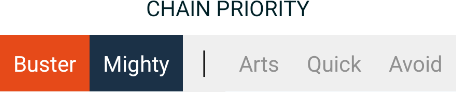
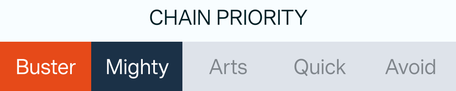
Chain Priority: tap a chain to turn it on or off instead of using a cutoff

diff --git a/scripts/src/main/java/io/github/fate_grand_automata/scripts/models/battle/ChainPriorityPerWave.kt b/scripts/src/main/java/io/github/fate_grand_automata/scripts/models/battle/ChainPriorityPerWave.kt
@@ -2,47 +2,83 @@ package io.github.fate_grand_automata.scripts.models.battle
 
 import io.github.fate_grand_automata.scripts.enums.ChainTypeEnum
 
+/** A chain type in the Chain Priority order. A disabled one keeps its place but is never tried. */
+data class ChainPriorityItem(
+    val type: ChainTypeEnum,
+    val isEnabled: Boolean = true
+)
+
+/**
+ * The Chain Priority order of each wave. Every wave holds each [ChainTypeEnum] exactly once.
+ *
+ * Saved as one line per wave, with the chain names in order and `!` in front of disabled ones,
+ * e.g. `Mighty,!Buster,Arts,Quick,!Avoid`.
+ */
 class ChainPriorityPerWave private constructor(
-    private val chainsPerWave: List<List<ChainTypeEnum>>
-) : List<List<ChainTypeEnum>> by chainsPerWave {
+    private val chainsPerWave: List<List<ChainPriorityItem>>
+) : List<List<ChainPriorityItem>> by chainsPerWave {
     fun atWave(wave: Int) =
         chainsPerWave[wave.coerceIn(chainsPerWave.indices)]
+
+    /** The chains to try in [wave], in order. */
+    fun enabledAtWave(wave: Int) =
+        atWave(wave)
+            .filter { it.isEnabled }
+            .map { it.type }
 
     override fun toString() =
         chainsPerWave
             .joinToString(STAGE_SEPARATOR) {
-                it.joinToString(SEPARATOR) { c -> c.name }
+                it.joinToString(SEPARATOR) { item ->
+                    if (item.isEnabled) item.type.name else DISABLED_PREFIX + item.type.name
+                }
             }
 
     companion object {
-        val default = from(listOf(ChainTypeEnum.defaultOrder))
+        val default = from(
+            listOf(
+                ChainTypeEnum.entries.map { ChainPriorityItem(it, isEnabled = it in ChainTypeEnum.defaultOrder) }
+            )
+        )
         private const val STAGE_SEPARATOR = "\n"
         private const val SEPARATOR = ","
+        private const val DISABLED_PREFIX = "!"
 
-        fun from(chainsPerWave: List<List<ChainTypeEnum>>) =
-            ChainPriorityPerWave(chainsPerWave)
+        fun from(chainsPerWave: List<List<ChainPriorityItem>>) =
+            ChainPriorityPerWave(chainsPerWave.map { it.complete() })
 
         fun of(priority: String): ChainPriorityPerWave =
             if (priority.isBlank()) {
                 default
             } else {
-                ChainPriorityPerWave(
+                from(
                     priority
                         .split(STAGE_SEPARATOR)
-                        .map { priorityOnAWave ->
-                            priorityOnAWave
-                                .split(SEPARATOR)
-                                // Skip names that are not chain types (e.g. a corrupt or edited config)
-                                // instead of crashing while the config loads
-                                .mapNotNull { name ->
-                                    ChainTypeEnum.entries.firstOrNull { it.name == name }
-                                }
-                                // Keeps the first occurrence of each, in order
-                                .toSet()
-                                .plusElement(ChainTypeEnum.None)
-                                .toList()
-                        }
+                        .map { parseWave(it) }
                 )
             }
+
+        private fun parseWave(wave: String): List<ChainPriorityItem> =
+            wave
+                .split(SEPARATOR)
+                .mapNotNull { name ->
+                    // Skip names that are not chain types (e.g. a corrupt or edited config)
+                    // instead of crashing while the config loads
+                    val type = ChainTypeEnum.entries
+                        .firstOrNull { it.name == name.removePrefix(DISABLED_PREFIX) }
+                        ?: return@mapNotNull null
+
+                    ChainPriorityItem(type, isEnabled = !name.startsWith(DISABLED_PREFIX))
+                }
+
+        /** Keeps the first occurrence of each chain type and adds missing ones at the end, disabled. */
+        private fun List<ChainPriorityItem>.complete(): List<ChainPriorityItem> {
+            val distinct = distinctBy { it.type }
+            val missing = ChainTypeEnum.entries
+                .filter { type -> distinct.none { it.type == type } }
+                .map { ChainPriorityItem(it, isEnabled = false) }
+
+            return distinct + missing
+        }
     }
 }

diff --git a/app/src/main/java/io/github/fate_grand_automata/ui/card_priority/Render.kt b/app/src/main/java/io/github/fate_grand_automata/ui/card_priority/Render.kt
@@ -25,6 +25,7 @@ import io.github.fate_grand_automata.R
 import io.github.fate_grand_automata.scripts.enums.BraveChainEnum
 import io.github.fate_grand_automata.scripts.enums.ChainTypeEnum
 import io.github.fate_grand_automata.scripts.models.TeamSlot
+import io.github.fate_grand_automata.scripts.models.battle.ChainPriorityItem
 import io.github.fate_grand_automata.ui.FGAListItemColors
 import io.github.fate_grand_automata.ui.drag_sort.DragSort
 import io.github.fate_grand_automata.ui.drag_sort.DragSortItemStyle
@@ -183,7 +184,7 @@ private fun ServantPriority(
 
 @Composable
 private fun ChainPriority(
-    priorities: SnapshotStateList<ChainTypeEnum>
+    priorities: SnapshotStateList<ChainPriorityItem>
 ) {
     Text(
         stringResource(R.string.p_chain_priority).uppercase(),
@@ -193,41 +194,43 @@ private fun ChainPriority(
 
     DragSort(
         items = priorities,
-        key = { it },
+        key = { it.type },
         style = {
-            val afterCutoff = priorities.isAfterCutoff(it)
-            DragSortItemStyle(
-                backgroundColor = colorResource(
-                    if (afterCutoff) R.color.colorDisabledBackground
-                    else when (it) {
-                        ChainTypeEnum.Arts -> R.color.colorArts
-                        ChainTypeEnum.Quick -> R.color.colorQuick
-                        ChainTypeEnum.Buster -> R.color.colorBuster
-                        ChainTypeEnum.Mighty -> R.color.colorPrimaryDark
-                        ChainTypeEnum.Avoid -> R.color.colorAvoid
-                        ChainTypeEnum.None -> R.color.colorDisabledBackground
-                    }
-                ),
-                contentColor = when {
-                    afterCutoff -> colorResource(R.color.colorDisabledText)
-                    it == ChainTypeEnum.None -> Color.Black
-                    else -> Color.White
-                },
-                text = if (it == ChainTypeEnum.None) "│" else stringResource(it.stringRes)
-            )
+            if (it.isEnabled) {
+                DragSortItemStyle(
+                    backgroundColor = colorResource(
+                        when (it.type) {
+                            ChainTypeEnum.Arts -> R.color.colorArts
+                            ChainTypeEnum.Quick -> R.color.colorQuick
+                            ChainTypeEnum.Buster -> R.color.colorBuster
+                            ChainTypeEnum.Mighty -> R.color.colorPrimaryDark
+                            ChainTypeEnum.Avoid -> R.color.colorAvoid
+                        }
+                    ),
+                    contentColor = Color.White,
+                    text = stringResource(it.type.stringRes)
+                )
+            } else {
+                DragSortItemStyle(
+                    backgroundColor = MaterialTheme.colorScheme.surfaceVariant,
+                    contentColor = MaterialTheme.colorScheme.onSurfaceVariant.copy(alpha = 0.6f),
+                    text = stringResource(it.type.stringRes)
+                )
+            }
         },
         modifier = Modifier.fillMaxWidth(),
-        fillWidth = true
+        fillWidth = true,
+        onClick = { index ->
+            val item = priorities[index]
+            priorities[index] = item.copy(isEnabled = !item.isEnabled)
+        }
     )
 
-    ReorderHint()
-}
-
-fun List<ChainTypeEnum>.isAfterCutoff(chainTypeEnum: ChainTypeEnum, indexOfAvoid: Int? = null): Boolean {
-    val avoidIndex = indexOfAvoid ?: this.indexOf(ChainTypeEnum.Cutoff)
-    val enumIndex = this.indexOf(chainTypeEnum)
-    if (avoidIndex < 0) return false
-    return enumIndex > avoidIndex
+    Text(
+        stringResource(R.string.chain_priority_hint),
+        style = MaterialTheme.typography.bodySmall,
+        modifier = Modifier.padding(horizontal = 16.dp)
+    )
 }
 
 @Composable

diff --git a/scripts/src/test/java/io/github/fate_grand_automata/scripts/models/ChainPriorityPerWaveTest.kt b/scripts/src/test/java/io/github/fate_grand_automata/scripts/models/ChainPriorityPerWaveTest.kt
@@ -1,0 +1,56 @@
+package io.github.fate_grand_automata.scripts.models
+
+import assertk.assertThat
+import assertk.assertions.containsExactly
+import assertk.assertions.isEqualTo
+import io.github.fate_grand_automata.scripts.enums.ChainTypeEnum.Arts
+import io.github.fate_grand_automata.scripts.enums.ChainTypeEnum.Avoid
+import io.github.fate_grand_automata.scripts.enums.ChainTypeEnum.Buster
+import io.github.fate_grand_automata.scripts.enums.ChainTypeEnum.Mighty
+import io.github.fate_grand_automata.scripts.enums.ChainTypeEnum.Quick
+import io.github.fate_grand_automata.scripts.models.battle.ChainPriorityItem
+import io.github.fate_grand_automata.scripts.models.battle.ChainPriorityPerWave
+import kotlin.test.Test
+
+class ChainPriorityPerWaveTest {
+    @Test
+    fun `disabled chains keep their place`() {
+        val priority = ChainPriorityPerWave.of("Mighty,!Buster,Arts,Quick,!Avoid")
+
+        assertThat(priority.atWave(0)).containsExactly(
+            ChainPriorityItem(Mighty),
+            ChainPriorityItem(Buster, isEnabled = false),
+            ChainPriorityItem(Arts),
+            ChainPriorityItem(Quick),
+            ChainPriorityItem(Avoid, isEnabled = false)
+        )
+        assertThat(priority.enabledAtWave(0)).containsExactly(Mighty, Arts, Quick)
+    }
+
+    @Test
+    fun `round trip`() {
+        val saved = "Avoid,!Mighty,!Buster,!Arts,!Quick\nBuster,Mighty,!Arts,!Quick,!Avoid"
+
+        assertThat(ChainPriorityPerWave.of(saved).toString()).isEqualTo(saved)
+    }
+
+    @Test
+    fun `missing chains are added disabled and unknown names skipped`() {
+        val priority = ChainPriorityPerWave.of("Buster,Spam,Buster,!Arts")
+
+        assertThat(priority.toString()).isEqualTo("Buster,!Arts,!Mighty,!Quick,!Avoid")
+    }
+
+    @Test
+    fun `default tries every chain except Avoid`() {
+        assertThat(ChainPriorityPerWave.default.enabledAtWave(0)).containsExactly(Mighty, Buster, Arts, Quick)
+        assertThat(ChainPriorityPerWave.of("").toString()).isEqualTo("Mighty,Buster,Arts,Quick,!Avoid")
+    }
+
+    @Test
+    fun `later waves use the last wave`() {
+        val priority = ChainPriorityPerWave.of("Mighty,Buster,Arts,Quick,!Avoid\nAvoid,!Mighty,!Buster,!Arts,!Quick")
+
+        assertThat(priority.enabledAtWave(2)).containsExactly(Avoid)
+    }
+}

diff --git a/app/src/main/java/io/github/fate_grand_automata/ui/drag_sort/DragSort.kt b/app/src/main/java/io/github/fate_grand_automata/ui/drag_sort/DragSort.kt
@@ -3,6 +3,7 @@ package io.github.fate_grand_automata.ui.drag_sort
 import androidx.compose.animation.animateColorAsState
 import androidx.compose.foundation.background
 import androidx.compose.foundation.border
+import androidx.compose.foundation.clickable
 import androidx.compose.foundation.layout.padding
 import androidx.compose.foundation.lazy.LazyRow
 import androidx.compose.foundation.lazy.itemsIndexed
@@ -42,6 +43,7 @@ data class DragSortItemStyle(
  *
  * @param fillWidth Splits the width evenly between the items instead of scrolling, so that every
  * item stays in view while dragging. Only suits rows with a few short labels.
+ * @param onClick Called with the index of a tapped item. Tapping does nothing when it is null.
  */
 @Composable
 fun <T> DragSort(
@@ -49,7 +51,8 @@ fun <T> DragSort(
     key: (T) -> Any,
     style: @Composable (T) -> DragSortItemStyle,
     modifier: Modifier = Modifier,
-    fillWidth: Boolean = false
+    fillWidth: Boolean = false,
+    onClick: ((index: Int) -> Unit)? = null
 ) {
     val listState = rememberLazyListState()
     val reorderableState = rememberReorderableLazyListState(listState) { from, to ->
@@ -81,6 +84,10 @@ fun <T> DragSort(
                     modifier = Modifier
                         .then(
                             if (fillWidth) Modifier.fillParentMaxWidth(1f / items.size)
+                            else Modifier
+                        )
+                        .then(
+                            if (onClick != null) Modifier.clickable { onClick(index) }
                             else Modifier
                         )
                         .longPressDraggableHandle(

diff --git a/scripts/src/test/java/io/github/fate_grand_automata/scripts/attack/CardChainPriorityIntegrationTest.kt b/scripts/src/test/java/io/github/fate_grand_automata/scripts/attack/CardChainPriorityIntegrationTest.kt
@@ -173,7 +173,7 @@ class CardChainPriorityIntegrationTest {
         val picked = AttackPriorityHandler.pick(
             cards = cards,
             braveChainEnum = BraveChainEnum.WithNP,
-            chainPriority = ChainTypeEnum.allPermitted.filter { it != ChainTypeEnum.Mighty },
+            chainPriority = ChainTypeEnum.entries.filter { it != ChainTypeEnum.Mighty },
         ).map { it.card }
         val pickedDefault = getDefaultAvoidChainResult(
             cards = cards,
@@ -189,7 +189,7 @@ class CardChainPriorityIntegrationTest {
         val picked = AttackPriorityHandler.pick(
             cards = cards,
             braveChainEnum = BraveChainEnum.WithNP,
-            chainPriority = ChainTypeEnum.allPermitted.filter { it != ChainTypeEnum.Mighty },
+            chainPriority = ChainTypeEnum.entries.filter { it != ChainTypeEnum.Mighty },
         ).map { it.card }
 
         // Expect avoid SB,KQ,SQ,NA,NA - 12534 - ABECD

diff --git a/app/src/main/java/io/github/fate_grand_automata/ui/card_priority/CardPriorityListItem.kt b/app/src/main/java/io/github/fate_grand_automata/ui/card_priority/CardPriorityListItem.kt
@@ -3,14 +3,14 @@ package io.github.fate_grand_automata.ui.card_priority
 import androidx.compose.runtime.MutableState
 import androidx.compose.runtime.snapshots.SnapshotStateList
 import io.github.fate_grand_automata.scripts.enums.BraveChainEnum
-import io.github.fate_grand_automata.scripts.enums.ChainTypeEnum
 import io.github.fate_grand_automata.scripts.models.CardScore
 import io.github.fate_grand_automata.scripts.models.TeamSlot
+import io.github.fate_grand_automata.scripts.models.battle.ChainPriorityItem
 
 data class CardPriorityListItem(
     val scores: SnapshotStateList<CardScore>,
     val servantPriority: SnapshotStateList<TeamSlot>,
-    val chainPriority: SnapshotStateList<ChainTypeEnum>,
+    val chainPriority: SnapshotStateList<ChainPriorityItem>,
     var rearrangeCards: MutableState<Boolean>,
     var braveChains: MutableState<BraveChainEnum>,
     val useServantPriority: MutableState<Boolean>,

diff --git a/scripts/src/main/java/io/github/fate_grand_automata/scripts/enums/ChainTypeEnum.kt b/scripts/src/main/java/io/github/fate_grand_automata/scripts/enums/ChainTypeEnum.kt
@@ -5,12 +5,10 @@ enum class ChainTypeEnum {
     Buster,
     Arts,
     Quick,
-    None,
     Avoid;
 
     companion object {
-        val Cutoff = None
-        val defaultOrder = listOf(Mighty, Buster, Arts, Quick, None, Avoid)
-        val allPermitted = listOf(Mighty, Buster, Arts, Quick, Avoid)
+        /** The chains tried when Chain Priority is first turned on, in order. */
+        val defaultOrder = listOf(Mighty, Buster, Arts, Quick)
     }
 }

diff --git a/scripts/src/main/java/io/github/fate_grand_automata/scripts/modules/Card.kt b/scripts/src/main/java/io/github/fate_grand_automata/scripts/modules/Card.kt
@@ -75,7 +75,7 @@ class Card @Inject constructor(
             )
 
             val npTypes = npUsageToUse.nps.associate { it.toFieldSlot() to it.type() }
-            val chainPriority = battleConfig.chainPriority.atWave(state.stage)
+            val chainPriority = battleConfig.chainPriority.enabledAtWave(state.stage)
             return AttackPriorityHandler.pick(
                 cards = cards,
                 priorityOrder = cardsOrderedByPriority,

diff --git a/scripts/src/main/java/io/github/fate_grand_automata/scripts/modules/attack/CardChainPriorityHandler.kt b/scripts/src/main/java/io/github/fate_grand_automata/scripts/modules/attack/CardChainPriorityHandler.kt
@@ -39,7 +39,6 @@ internal object CardChainPriorityHandler {
 
         for (chain in chainPriority) {
             val order = when (chain) {
-                ChainTypeEnum.None -> break
                 ChainTypeEnum.Mighty -> MightyChainHandler.pick(
                     cards = nonUnknownCards,
                     npUsage = npUsage,

diff --git a/app/src/main/java/io/github/fate_grand_automata/util/LocalizationExtensions.kt b/app/src/main/java/io/github/fate_grand_automata/util/LocalizationExtensions.kt
@@ -38,7 +38,6 @@ val ChainTypeEnum.stringRes
         ChainTypeEnum.Buster -> R.string.p_chain_type_buster
         ChainTypeEnum.Mighty -> R.string.p_chain_type_mighty
         ChainTypeEnum.Avoid -> R.string.p_chain_type_avoid
-        ChainTypeEnum.None -> R.string.p_spam_none
     }
 
 val SpamEnum.stringRes

diff --git a/wiki/Card-Priority.md b/wiki/Card-Priority.md
@@ -67,6 +67,8 @@ FGA reads the NP type when a Servant enters the field and checks it again after 
 
 The game's NP type change banner can hide the changed type. When the type is unreadable, FGA tries to read the banner's turn counter and checks again when the effect should end. One turn left means a check at the start of the next turn. If the counter is unreadable, FGA retries each turn. Until it recognizes the type, Chain Priority uses the last known type, which may differ from the active one, or treats it as unknown if it has never been read.
 
+Tap a chain to turn it on or off. Grey chains are never tried, but keep their place in the order. Hold and drag a chain to change the order.
+
 The way Chain Priority works is that it checks for Chains in the order that is shown (from left to right). If it finds a chain, then it will use that chain immediately.
 
 E.g. If Chain Priority is on and `Default order` is used, it will attempt to check for a `Mighty` Chain first. If there is no valid `Mighty` Chain, then it will attempt to check for a **Buster** Chain. If there is no valid **Buster** Chain, it will attempt to check for an **Arts** Chain and so on and so forth. If an **Arts** Chain was found, it will skip checking for a **Quick** Chain using the cards and will immediately use the **Arts** Chain. However, if all options fail to find any usable Chain, it will fallback to Servant Priority + Card Priority to determine the cards used.   
